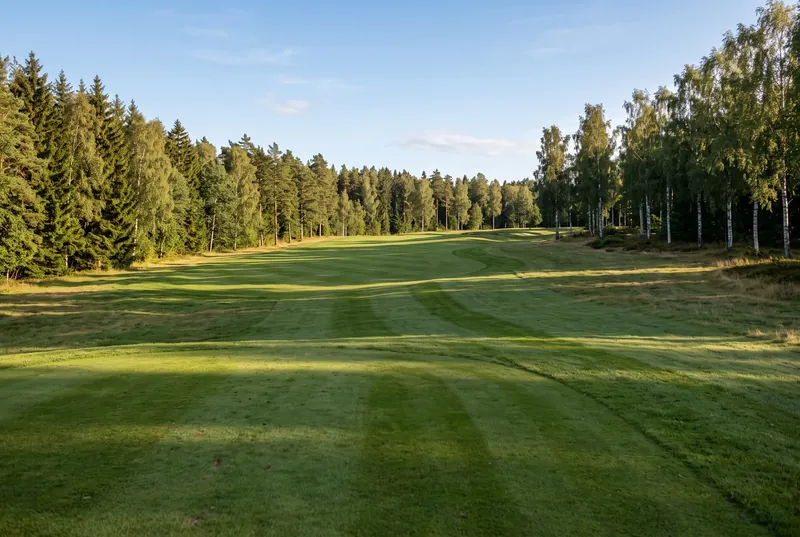
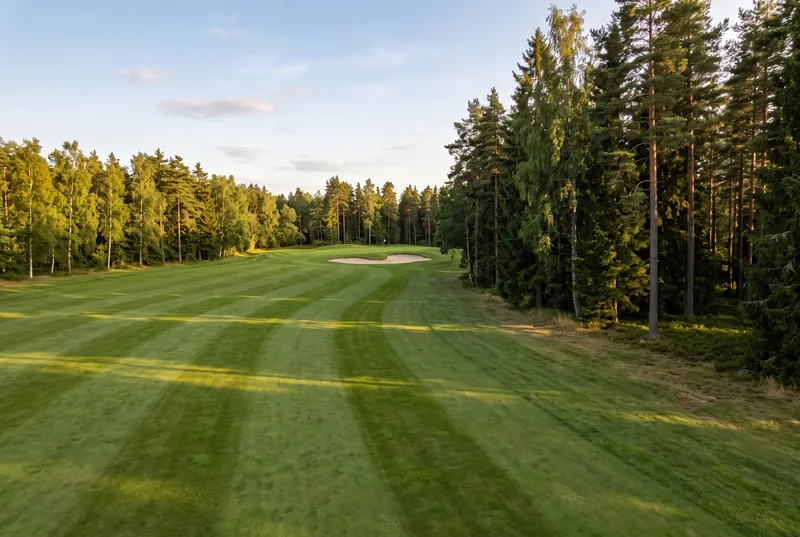
Glasriket startsida: ny entré med banan i en glaskula som i sigillet, banöversikten flyttad till avsnitt 2
Eric 2026-10-30: toppen ska andas kvalitet, Småland och skogsbana. Sidhuvudet är
genomskinligt över entrén. Första försöket (helbild med versalrad) fälldes i
smakgranskningen som standardmall.

Claude-Session: https://claude.ai/code/session_01QQJTjhsrBRz82Tavtjx8Vf

diff --git a/hemsidor/glasriket/public/css/site.css b/hemsidor/glasriket/public/css/site.css
@@ -149,7 +149,7 @@ address{font-style:normal;margin:0 0 1em}
 .hk-tom span{font:400 clamp(72px,16vw,120px)/1 var(--serif);color:var(--djup);opacity:.35;letter-spacing:-.03em}
 .hk-text{display:grid;gap:2px;padding:12px 14px 16px}
 .hk-nr{font:500 22px/1.1 var(--serif)}
-.hk-fakta{font:600 12px/1.3 var(--sans);letter-spacing:.1em;text-transform:uppercase;color:var(--sjo-text)}
+.hk-fakta{font:600 13px/1.3 var(--sans);letter-spacing:.1em;text-transform:uppercase;color:var(--sjo-text)}
 .hk-rubrik{font-size:15px;line-height:1.35;color:var(--text-2);margin-top:4px}
 
 /* banöversikt */
@@ -303,18 +303,51 @@ address{font-style:normal;margin:0 0 1em}
 
 
 /* ---------------------------------------------------------------- startsidan: skogsjuvelen */
-/* Banan överst: hela banan ovanifrån i dagens årstid, varje siffra öppnar hålet */
-.bana{background:#FBF2ED;padding:40px 0 56px}
+/* Entrén: banan i en glaskula, som klotet i klubbens sigill, mot nattblått */
+.entre{position:relative;min-height:100svh;display:flex;align-items:center;background:radial-gradient(ellipse 80% 70% at 70% 45%,#1D3A4C 0%,var(--natt) 70%);color:var(--vit);overflow:hidden}
+.js .entre{margin-top:-68px}
+.entre-inne{display:grid;gap:40px;justify-items:center;text-align:center;padding-top:92px;padding-bottom:48px}
+.entre-klot{position:relative;margin:0;width:min(84vw,46svh);aspect-ratio:1;border-radius:50%;outline:1.5px solid rgba(217,164,65,.6);outline-offset:12px;overflow:hidden;box-shadow:0 40px 120px rgba(0,0,0,.45);animation:klot 1.4s cubic-bezier(.2,.7,.2,1) both}
+.entre-klot img{width:100%;height:100%;object-fit:cover;object-position:46% 60%;animation:andas 18s cubic-bezier(.2,.6,.3,1) both}
+.entre-klot::after{content:"";position:absolute;inset:0;border-radius:50%;background:radial-gradient(circle at 30% 20%,rgba(255,255,255,.3) 0%,rgba(255,255,255,0) 32%),radial-gradient(circle at 50% 50%,rgba(16,32,46,0) 60%,rgba(16,32,46,.4) 100%);pointer-events:none}
+.entre-sigill{width:64px;height:64px;margin:0 auto 18px;animation:stig 1.1s .2s cubic-bezier(.2,.7,.2,1) both}
+.entre h1{color:var(--vit);font-size:clamp(40px,5.6vw,88px);line-height:1.02;letter-spacing:-.02em;margin:0 0 .35em;animation:stig 1.1s .3s cubic-bezier(.2,.7,.2,1) both}
+.entre h1 span,.entre-ingress span{display:block}
+.entre-ingress{font:400 clamp(17px,1.6vw,20px)/1.55 var(--sans);color:rgba(248,250,246,.9);max-width:34ch;margin:0 auto 28px;animation:stig 1.1s .4s cubic-bezier(.2,.7,.2,1) both}
+.entre-ingress span{margin-top:8px;font:italic 400 1.12em/1.4 var(--serif);color:var(--vit)}
+.entre-knappar{display:flex;flex-wrap:wrap;justify-content:center;align-items:center;gap:16px 28px;margin:0;animation:stig 1.1s .5s cubic-bezier(.2,.7,.2,1) both}
+@keyframes klot{from{opacity:0;transform:scale(.86)}to{opacity:1;transform:none}}
+@keyframes andas{from{transform:scale(1.12)}to{transform:scale(1)}}
+@media (min-width:900px){
+  .entre-inne{grid-template-columns:minmax(0,1fr) minmax(0,1fr);align-items:center;gap:64px;justify-items:start;text-align:left;padding-top:120px;padding-bottom:72px}
+  .entre-text{grid-column:1;grid-row:1}
+  .entre-klot{grid-column:2;grid-row:1;justify-self:center;width:min(40vw,68svh,540px)}
+  .entre-sigill{margin:0 0 22px}
+  .entre-ingress{margin-left:0}
+  .entre-knappar{justify-content:flex-start}
+}
+/* Sidhuvudet ligger genomskinligt över entrén tills man skrollar förbi den */
+.huvud{transition:background .3s,box-shadow .3s}
+.huvud .marke{transition:opacity .3s}
+.huvud.pa-bild{background:transparent;backdrop-filter:none}
+.huvud.pa-bild .marke{opacity:0;pointer-events:none}
+.huvud.pa-bild .meny a{color:var(--vit)}
+.huvud.pa-bild .meny a:hover{background:rgba(248,250,246,.14)}
+.huvud.pa-bild .mobilmeny:not([open]) summary span,.huvud.pa-bild .mobilmeny:not([open]) summary span::before,.huvud.pa-bild .mobilmeny:not([open]) summary span::after{background:var(--vit)}
+.huvud.pa-bild:has(.mobilmeny[open]){background:var(--dimma)}
+
+/* Banan: hela banan ovanifrån i dagens årstid, varje siffra zoomar in på hålet */
+.bana{background:#FBF2ED;padding:64px 0 56px}
 .bana-grid{display:grid;gap:24px;grid-template-areas:"topp" "bild" "panel"}
 .bana-topp{grid-area:topp}
 .bana-bild{grid-area:bild}
 .bana-panel{grid-area:panel}
-.bana h1{font-size:clamp(44px,6vw,80px);line-height:.98;letter-spacing:-.02em;max-width:13ch;margin-bottom:.3em;text-wrap:balance;animation:stig 1.1s cubic-bezier(.2,.7,.2,1) both}
-.bana .ingress{color:var(--djup);max-width:34ch;animation:stig 1.1s .15s cubic-bezier(.2,.7,.2,1) both}
-.bana-knappar{display:flex;flex-wrap:wrap;align-items:center;gap:16px 28px;margin:28px 0 0;animation:stig 1.1s .25s cubic-bezier(.2,.7,.2,1) both}
+.bana h2{font-size:clamp(36px,4.6vw,60px);line-height:1.02;letter-spacing:-.015em;max-width:13ch;margin-bottom:.35em}
+.bana .ingress{color:var(--djup);max-width:34ch}
+.bana-knappar{display:flex;flex-wrap:wrap;align-items:center;gap:16px 28px;margin:24px 0 0}
 @keyframes stig{from{opacity:0;transform:translateY(32px)}to{opacity:1;transform:none}}
 @media (min-width:900px){
-  .bana{padding:72px 0 96px}
+  .bana{padding:120px 0 120px}
   .bana-grid{grid-template-columns:minmax(0,1fr) minmax(0,1.1fr);grid-template-areas:"topp bild" "panel bild";grid-template-rows:auto 1fr;column-gap:72px;row-gap:40px;align-items:start}
   .bana-panel{position:sticky;top:120px}
 }

diff --git a/hemsidor/glasriket/tillgangar/css/site.css b/hemsidor/glasriket/tillgangar/css/site.css
@@ -149,7 +149,7 @@ address{font-style:normal;margin:0 0 1em}
 .hk-tom span{font:400 clamp(72px,16vw,120px)/1 var(--serif);color:var(--djup);opacity:.35;letter-spacing:-.03em}
 .hk-text{display:grid;gap:2px;padding:12px 14px 16px}
 .hk-nr{font:500 22px/1.1 var(--serif)}
-.hk-fakta{font:600 12px/1.3 var(--sans);letter-spacing:.1em;text-transform:uppercase;color:var(--sjo-text)}
+.hk-fakta{font:600 13px/1.3 var(--sans);letter-spacing:.1em;text-transform:uppercase;color:var(--sjo-text)}
 .hk-rubrik{font-size:15px;line-height:1.35;color:var(--text-2);margin-top:4px}
 
 /* banöversikt */
@@ -303,18 +303,51 @@ address{font-style:normal;margin:0 0 1em}
 
 
 /* ---------------------------------------------------------------- startsidan: skogsjuvelen */
-/* Banan överst: hela banan ovanifrån i dagens årstid, varje siffra öppnar hålet */
-.bana{background:#FBF2ED;padding:40px 0 56px}
+/* Entrén: banan i en glaskula, som klotet i klubbens sigill, mot nattblått */
+.entre{position:relative;min-height:100svh;display:flex;align-items:center;background:radial-gradient(ellipse 80% 70% at 70% 45%,#1D3A4C 0%,var(--natt) 70%);color:var(--vit);overflow:hidden}
+.js .entre{margin-top:-68px}
+.entre-inne{display:grid;gap:40px;justify-items:center;text-align:center;padding-top:92px;padding-bottom:48px}
+.entre-klot{position:relative;margin:0;width:min(84vw,46svh);aspect-ratio:1;border-radius:50%;outline:1.5px solid rgba(217,164,65,.6);outline-offset:12px;overflow:hidden;box-shadow:0 40px 120px rgba(0,0,0,.45);animation:klot 1.4s cubic-bezier(.2,.7,.2,1) both}
+.entre-klot img{width:100%;height:100%;object-fit:cover;object-position:46% 60%;animation:andas 18s cubic-bezier(.2,.6,.3,1) both}
+.entre-klot::after{content:"";position:absolute;inset:0;border-radius:50%;background:radial-gradient(circle at 30% 20%,rgba(255,255,255,.3) 0%,rgba(255,255,255,0) 32%),radial-gradient(circle at 50% 50%,rgba(16,32,46,0) 60%,rgba(16,32,46,.4) 100%);pointer-events:none}
+.entre-sigill{width:64px;height:64px;margin:0 auto 18px;animation:stig 1.1s .2s cubic-bezier(.2,.7,.2,1) both}
+.entre h1{color:var(--vit);font-size:clamp(40px,5.6vw,88px);line-height:1.02;letter-spacing:-.02em;margin:0 0 .35em;animation:stig 1.1s .3s cubic-bezier(.2,.7,.2,1) both}
+.entre h1 span,.entre-ingress span{display:block}
+.entre-ingress{font:400 clamp(17px,1.6vw,20px)/1.55 var(--sans);color:rgba(248,250,246,.9);max-width:34ch;margin:0 auto 28px;animation:stig 1.1s .4s cubic-bezier(.2,.7,.2,1) both}
+.entre-ingress span{margin-top:8px;font:italic 400 1.12em/1.4 var(--serif);color:var(--vit)}
+.entre-knappar{display:flex;flex-wrap:wrap;justify-content:center;align-items:center;gap:16px 28px;margin:0;animation:stig 1.1s .5s cubic-bezier(.2,.7,.2,1) both}
+@keyframes klot{from{opacity:0;transform:scale(.86)}to{opacity:1;transform:none}}
+@keyframes andas{from{transform:scale(1.12)}to{transform:scale(1)}}
+@media (min-width:900px){
+  .entre-inne{grid-template-columns:minmax(0,1fr) minmax(0,1fr);align-items:center;gap:64px;justify-items:start;text-align:left;padding-top:120px;padding-bottom:72px}
+  .entre-text{grid-column:1;grid-row:1}
+  .entre-klot{grid-column:2;grid-row:1;justify-self:center;width:min(40vw,68svh,540px)}
+  .entre-sigill{margin:0 0 22px}
+  .entre-ingress{margin-left:0}
+  .entre-knappar{justify-content:flex-start}
+}
+/* Sidhuvudet ligger genomskinligt över entrén tills man skrollar förbi den */
+.huvud{transition:background .3s,box-shadow .3s}
+.huvud .marke{transition:opacity .3s}
+.huvud.pa-bild{background:transparent;backdrop-filter:none}
+.huvud.pa-bild .marke{opacity:0;pointer-events:none}
+.huvud.pa-bild .meny a{color:var(--vit)}
+.huvud.pa-bild .meny a:hover{background:rgba(248,250,246,.14)}
+.huvud.pa-bild .mobilmeny:not([open]) summary span,.huvud.pa-bild .mobilmeny:not([open]) summary span::before,.huvud.pa-bild .mobilmeny:not([open]) summary span::after{background:var(--vit)}
+.huvud.pa-bild:has(.mobilmeny[open]){background:var(--dimma)}
+
+/* Banan: hela banan ovanifrån i dagens årstid, varje siffra zoomar in på hålet */
+.bana{background:#FBF2ED;padding:64px 0 56px}
 .bana-grid{display:grid;gap:24px;grid-template-areas:"topp" "bild" "panel"}
 .bana-topp{grid-area:topp}
 .bana-bild{grid-area:bild}
 .bana-panel{grid-area:panel}
-.bana h1{font-size:clamp(44px,6vw,80px);line-height:.98;letter-spacing:-.02em;max-width:13ch;margin-bottom:.3em;text-wrap:balance;animation:stig 1.1s cubic-bezier(.2,.7,.2,1) both}
-.bana .ingress{color:var(--djup);max-width:34ch;animation:stig 1.1s .15s cubic-bezier(.2,.7,.2,1) both}
-.bana-knappar{display:flex;flex-wrap:wrap;align-items:center;gap:16px 28px;margin:28px 0 0;animation:stig 1.1s .25s cubic-bezier(.2,.7,.2,1) both}
+.bana h2{font-size:clamp(36px,4.6vw,60px);line-height:1.02;letter-spacing:-.015em;max-width:13ch;margin-bottom:.35em}
+.bana .ingress{color:var(--djup);max-width:34ch}
+.bana-knappar{display:flex;flex-wrap:wrap;align-items:center;gap:16px 28px;margin:24px 0 0}
 @keyframes stig{from{opacity:0;transform:translateY(32px)}to{opacity:1;transform:none}}
 @media (min-width:900px){
-  .bana{padding:72px 0 96px}
+  .bana{padding:120px 0 120px}
   .bana-grid{grid-template-columns:minmax(0,1fr) minmax(0,1.1fr);grid-template-areas:"topp bild" "panel bild";grid-template-rows:auto 1fr;column-gap:72px;row-gap:40px;align-items:start}
   .bana-panel{position:sticky;top:120px}
 }

diff --git a/hemsidor/glasriket/public/index.html b/hemsidor/glasriket/public/index.html
@@ -10,7 +10,7 @@
 <meta property="og:title" content="Glasrikets Golfklubb · Golf i naturreservatet Fylleryd, Växjö">
 <meta property="og:description" content="Arton hål genom naturreservatet Fylleryd, 4,5 km från Växjö centrum. Spela banan hål för hål redan nu, och boka din starttid.">
 <meta property="og:url" content="https://www.glasriketsgk.se/">
-<meta property="og:image" content="https://www.glasriketsgk.se/img/karta-sommar-2000.webp">
+<meta property="og:image" content="https://www.glasriketsgk.se/img/stamning-1600.webp">
 <meta property="og:locale" content="sv_SE">
 <meta property="og:site_name" content="Glasrikets Golfklubb">
 <meta name="theme-color" content="#10202E">
@@ -34,19 +34,33 @@
   </div>
 </header>
 <main id="innehall">
+<section class="entre" aria-labelledby="entre-rubrik" data-entre>
+  <div class="inne entre-inne">
+    <figure class="entre-klot">
+      <img src="/img/stamning-1600.webp" srcset="/img/stamning-800.webp 800w, /img/stamning-1600.webp 1600w, /img/stamning-2400.webp 2400w" sizes="(min-width: 900px) 50vw, 86vw" width="1600" height="1073" alt="Fairway i kvällssol mellan höga tallar, fram mot green och bunker" fetchpriority="high" decoding="async">
+    </figure>
+    <div class="entre-text">
+      <img class="entre-sigill" src="/img/sigill-vit-192.png" srcset="/img/sigill-vit-192.png 1x, /img/sigill-vit-288.png 1.5x" width="80" height="80" alt="">
+      <h1 id="entre-rubrik"><span>Nära Växjö.</span> <span>Djupt i&nbsp;skogen.</span></h1>
+      <p class="entre-ingress">Arton hål där Smålands tallar står tätt och det blir tyst mellan slagen. <span>Välkommen hem. Eller välkommen&nbsp;hit.</span></p>
+      <p class="entre-knappar"><a class="knapp knapp-glod" href="https://mingolf.golf.se/" rel="noopener">Boka starttid</a> <a class="pil pil-ljus" href="#kartan">Se banan</a></p>
+    </div>
+  </div>
+</section>
+
 <section class="bana" id="kartan" aria-labelledby="bana-rubrik">
   <div class="inne bana-grid">
-    <div class="bana-topp">
-      <h1 id="bana-rubrik">Arton hål som stannar&nbsp;kvar</h1>
+    <div class="bana-topp" data-visa>
+      <h2 id="bana-rubrik">Arton hål som stannar&nbsp;kvar</h2>
       <p class="ingress" data-arstid-text
          data-text-var="Vitsipporna lyser i skogsbrynet och greenerna har just vaknat. Tryck på ett hål och spela det i förväg."
          data-text-host="Björkarna längs fjortonde har gått i guld. Tryck på ett hål och spela det i förväg."
          data-text-vinter="Banan vilar under snön. Tryck på ett hål och planera vårens första runda.">Fairway glöder i kvällssol och det är tyst mellan granarna. Tryck på ett hål och spela det i förväg.</p>
-      <p class="bana-knappar"><a class="knapp knapp-glod" href="https://mingolf.golf.se/" rel="noopener">Boka starttid</a> <a class="pil" href="/banan/">Se alla 18 hål</a></p>
+      <p class="bana-knappar"><a class="pil" href="/banan/">Se alla 18 hål</a></p>
     </div>
     <div class="karta-bild bana-bild" data-karta>
       <div class="karta-zoom" data-karta-zoom>
-      <img class="karta-lager aktiv" data-lager="sommar" src="/img/karta-sommar-1200.webp" srcset="/img/karta-sommar-1200.webp 800w, /img/karta-sommar-2000.webp 1334w" sizes="(min-width: 900px) 50vw, 92vw" width="800" height="1200" alt="Glasrikets 18-hålsbana ovanifrån, med hålens nummer" fetchpriority="high" decoding="async">
+      <img class="karta-lager aktiv" data-lager="sommar" src="/img/karta-sommar-1200.webp" srcset="/img/karta-sommar-1200.webp 800w, /img/karta-sommar-2000.webp 1334w" sizes="(min-width: 900px) 50vw, 92vw" width="800" height="1200" alt="Glasrikets 18-hålsbana ovanifrån, med hålens nummer" loading="lazy" decoding="async">
       <img class="karta-lager" data-lager="var" data-src="/img/karta-var-1200.webp" data-srcset="/img/karta-var-1200.webp 800w, /img/karta-var-2000.webp 1334w" sizes="(min-width: 900px) 50vw, 92vw" width="800" height="1200" alt="Glasrikets 18-hålsbana ovanifrån på våren, med hålens nummer" decoding="async">
       <img class="karta-lager" data-lager="host" data-src="/img/karta-host-1200.webp" data-srcset="/img/karta-host-1200.webp 800w, /img/karta-host-2000.webp 1334w" sizes="(min-width: 900px) 50vw, 92vw" width="800" height="1200" alt="Glasrikets 18-hålsbana ovanifrån på hösten, med hålens nummer" decoding="async">
       <img class="karta-lager" data-lager="vinter" data-src="/img/karta-vinter-1200.webp" data-srcset="/img/karta-vinter-1200.webp 800w, /img/karta-vinter-2000.webp 1334w" sizes="(min-width: 900px) 50vw, 92vw" width="800" height="1200" alt="Glasrikets 18-hålsbana ovanifrån i snö, med hålens nummer" decoding="async">

diff --git a/hemsidor/glasriket/sidor/01-start.html b/hemsidor/glasriket/sidor/01-start.html
@@ -2,21 +2,35 @@
 titel: Glasrikets Golfklubb · Golf i naturreservatet Fylleryd, Växjö
 beskrivning: Arton hål genom naturreservatet Fylleryd, 4,5 km från Växjö centrum. Spela banan hål för hål redan nu, och boka din starttid.
 sokvag:
-bild: img/karta-sommar-2000.webp
+bild: img/stamning-1600.webp
 -->
+<section class="entre" aria-labelledby="entre-rubrik" data-entre>
+  <div class="inne entre-inne">
+    <figure class="entre-klot">
+      <img src="/img/stamning-1600.webp" srcset="/img/stamning-800.webp 800w, /img/stamning-1600.webp 1600w, /img/stamning-2400.webp 2400w" sizes="(min-width: 900px) 50vw, 86vw" width="1600" height="1073" alt="Fairway i kvällssol mellan höga tallar, fram mot green och bunker" fetchpriority="high" decoding="async">
+    </figure>
+    <div class="entre-text">
+      <img class="entre-sigill" src="/img/sigill-vit-192.png" srcset="/img/sigill-vit-192.png 1x, /img/sigill-vit-288.png 1.5x" width="80" height="80" alt="">
+      <h1 id="entre-rubrik"><span>Nära Växjö.</span> <span>Djupt i&nbsp;skogen.</span></h1>
+      <p class="entre-ingress">Arton hål där Smålands tallar står tätt och det blir tyst mellan slagen. <span>Välkommen hem. Eller välkommen&nbsp;hit.</span></p>
+      <p class="entre-knappar"><a class="knapp knapp-glod" href="{{bokning_url}}" rel="noopener">Boka starttid</a> <a class="pil pil-ljus" href="#kartan">Se banan</a></p>
+    </div>
+  </div>
+</section>
+
 <section class="bana" id="kartan" aria-labelledby="bana-rubrik">
   <div class="inne bana-grid">
-    <div class="bana-topp">
-      <h1 id="bana-rubrik">Arton hål som stannar&nbsp;kvar</h1>
+    <div class="bana-topp" data-visa>
+      <h2 id="bana-rubrik">Arton hål som stannar&nbsp;kvar</h2>
       <p class="ingress" data-arstid-text
          data-text-var="Vitsipporna lyser i skogsbrynet och greenerna har just vaknat. Tryck på ett hål och spela det i förväg."
          data-text-host="Björkarna längs fjortonde har gått i guld. Tryck på ett hål och spela det i förväg."
          data-text-vinter="Banan vilar under snön. Tryck på ett hål och planera vårens första runda.">Fairway glöder i kvällssol och det är tyst mellan granarna. Tryck på ett hål och spela det i förväg.</p>
-      <p class="bana-knappar"><a class="knapp knapp-glod" href="{{bokning_url}}" rel="noopener">Boka starttid</a> <a class="pil" href="/banan/">Se alla 18 hål</a></p>
+      <p class="bana-knappar"><a class="pil" href="/banan/">Se alla 18 hål</a></p>
     </div>
     <div class="karta-bild bana-bild" data-karta>
       <div class="karta-zoom" data-karta-zoom>
-      <img class="karta-lager aktiv" data-lager="sommar" src="/img/karta-sommar-1200.webp" srcset="/img/karta-sommar-1200.webp 800w, /img/karta-sommar-2000.webp 1334w" sizes="(min-width: 900px) 50vw, 92vw" width="800" height="1200" alt="Glasrikets 18-hålsbana ovanifrån, med hålens nummer" fetchpriority="high" decoding="async">
+      <img class="karta-lager aktiv" data-lager="sommar" src="/img/karta-sommar-1200.webp" srcset="/img/karta-sommar-1200.webp 800w, /img/karta-sommar-2000.webp 1334w" sizes="(min-width: 900px) 50vw, 92vw" width="800" height="1200" alt="Glasrikets 18-hålsbana ovanifrån, med hålens nummer" loading="lazy" decoding="async">
       <img class="karta-lager" data-lager="var" data-src="/img/karta-var-1200.webp" data-srcset="/img/karta-var-1200.webp 800w, /img/karta-var-2000.webp 1334w" sizes="(min-width: 900px) 50vw, 92vw" width="800" height="1200" alt="Glasrikets 18-hålsbana ovanifrån på våren, med hålens nummer" decoding="async">
       <img class="karta-lager" data-lager="host" data-src="/img/karta-host-1200.webp" data-srcset="/img/karta-host-1200.webp 800w, /img/karta-host-2000.webp 1334w" sizes="(min-width: 900px) 50vw, 92vw" width="800" height="1200" alt="Glasrikets 18-hålsbana ovanifrån på hösten, med hålens nummer" decoding="async">
       <img class="karta-lager" data-lager="vinter" data-src="/img/karta-vinter-1200.webp" data-srcset="/img/karta-vinter-1200.webp 800w, /img/karta-vinter-2000.webp 1334w" sizes="(min-width: 900px) 50vw, 92vw" width="800" height="1200" alt="Glasrikets 18-hålsbana ovanifrån i snö, med hålens nummer" decoding="async">

diff --git a/hemsidor/glasriket/public/js/site.js b/hemsidor/glasriket/public/js/site.js
@@ -25,6 +25,15 @@
     document.addEventListener('keydown', function (h) { if (h.key === 'Escape') meny.open = false; });
   }
 
+  // Startsidan: sidhuvudet är genomskinligt över entrébilden och blir fast när man skrollat förbi den
+  var entre = document.querySelector('[data-entre]'), huvud = document.querySelector('.huvud');
+  if (entre && huvud) {
+    var lage = function () { huvud.classList.toggle('pa-bild', entre.getBoundingClientRect().bottom > huvud.offsetHeight + 1); };
+    lage();
+    window.addEventListener('scroll', lage, { passive: true });
+    window.addEventListener('resize', lage);
+  }
+
   // Årstiden styr bilderna: kartan och hålbilderna visas som banan ser ut just nu.
   // Vår april–maj, sommar juni–augusti, höst september–oktober, vinter november–mars.
   // ?arstid=vinter (osv.) visar en annan årstid under besöket – för granskning.

diff --git a/hemsidor/glasriket/tillgangar/js/site.js b/hemsidor/glasriket/tillgangar/js/site.js
@@ -25,6 +25,15 @@
     document.addEventListener('keydown', function (h) { if (h.key === 'Escape') meny.open = false; });
   }
 
+  // Startsidan: sidhuvudet är genomskinligt över entrébilden och blir fast när man skrollat förbi den
+  var entre = document.querySelector('[data-entre]'), huvud = document.querySelector('.huvud');
+  if (entre && huvud) {
+    var lage = function () { huvud.classList.toggle('pa-bild', entre.getBoundingClientRect().bottom > huvud.offsetHeight + 1); };
+    lage();
+    window.addEventListener('scroll', lage, { passive: true });
+    window.addEventListener('resize', lage);
+  }
+
   // Årstiden styr bilderna: kartan och hålbilderna visas som banan ser ut just nu.
   // Vår april–maj, sommar juni–augusti, höst september–oktober, vinter november–mars.
   // ?arstid=vinter (osv.) visar en annan årstid under besöket – för granskning.

diff --git a/hemsidor/glasriket/forbered.py b/hemsidor/glasriket/forbered.py
@@ -82,6 +82,14 @@ def sigill():
     duk.convert("RGB").save(UT / "apple-touch-icon.png")
 
 
+def sigill_vit():
+    """Vita sigillet till toppbilden på startsidan (genomskinlig PNG, ingen webbläsare behövs)."""
+    im = Image.open(KALLA / "logo-fornyad" / "sigill" / "smaland" / "Glasriket_sigill-smaland_enfarg_vit.png").convert("RGBA")
+    im = im.crop(im.getbbox())
+    for storlek in (96, 192, 288):
+        im.resize((storlek, storlek), Image.LANCZOS).save(UT / "img" / f"sigill-vit-{storlek}.png", optimize=True)
+
+
 def foton():
     (UT / "img").mkdir(parents=True, exist_ok=True)
     for namn, fil in FOTON.items():
@@ -97,9 +105,9 @@ def foton():
 
 
 ARSTIDER = ("var", "sommar", "host", "vinter")
-# Stämningsbilden överst på startsidan. Tills klubbens eget foto finns: hål 14 från tee i ögonhöjd
-# (godkänd vy, byggd på Lantmäteriets höjddata). Byt bara sökvägen när fotot är taget.
-STAMNINGSBILD = KALLA / "ogonhojd" / "v2" / "h14-tee.jpg"
+# Stämningsbilden överst på startsidan. Tills klubbens eget foto finns: fairway mellan tallarna
+# vid fjortonde green (godkänd vy, byggd på Lantmäteriets höjddata). Byt bara sökvägen när fotot är taget.
+STAMNINGSBILD = KALLA / "ogonhojd" / "v2" / "allm-h14green.jpg"
 
 
 def arstider():
@@ -123,6 +131,6 @@ def stamning():
 
 
 if __name__ == "__main__":
-    delar = sys.argv[1:] or ["typsnitt", "sigill", "foton", "arstider", "stamning"]
+    delar = sys.argv[1:] or ["typsnitt", "sigill", "sigill_vit", "foton", "arstider", "stamning"]
     for d in delar:
         globals()[d]()

diff --git a/hemsidor/glasriket/DESIGN.md b/hemsidor/glasriket/DESIGN.md
@@ -1,9 +1,11 @@
 # Glasrikets GK – designfil
 
-**Idé:** Banan först. Det första besökaren ser är hela banan ovanifrån i dagens årstid (vår, sommar, höst eller vinter
-efter datum), med alla 18 hål klickbara. Förslag 2 (2026-10-27, Eric: banan i fokus och mycket bättre säljande texter).
+**Idé:** Banan i glaskulan. Överst ligger banan i ett glasklot mot nattblått, samma klot som i klubbens sigill
+"Småland": glaset i Glasriket och skogen i Fylleryd i en och samma bild. Sedan hela banan ovanifrån i dagens årstid,
+där varje hål går att zooma in på (Eric 2026-10-30: toppen ska andas kvalitet, Småland och skogsbana, stolthet för
+medlemmar och lust för gäster; banöversikten i avsnitt 2).
 
-Registrerad i `hemsidor/designregister.yaml` (riktning `arstiderna`, toppbild `stamningsfoto`).
+Registrerad i `hemsidor/designregister.yaml` (riktning `arstiderna`, toppbild `glaskula`).
 
 ## Typsnitt (klubbens profil "Glas och skog")
 - Rubriker och siffror: Spectral 400/500. Brödtext och knappar: Hanken Grotesk 400–600.
@@ -21,15 +23,19 @@ Registrerad i `hemsidor/designregister.yaml` (riktning `arstiderna`, toppbild `s
 | Knapp och vald hålsiffra | glöd `#D9A441` |
 
 ## Startsidan, avsnitt för avsnitt
-1. **Banan (toppen):** rubrik, en mening som byts efter årstid och "Boka starttid" bredvid kartan. Siffrorna tänds en
+1. **Entrén:** banan i en rund glaskula med tunn guldring, vita sigillet, rubriken "Nära Växjö. Djupt i skogen.",
+   en mening plus "Välkommen hem. Eller välkommen hit." (medlem och gäst), "Boka starttid" och "Se banan".
+   Ingen versalrad, inga textskuggor, ingen sifferrad. Sidhuvudet är genomskinligt över entrén och sigillet i
+   huvudet syns först när man skrollat förbi. Bilden byts mot klubbens eget foto i `forbered.py` (STAMNINGSBILD).
+2. **Banan:** rubrik, en mening som byts efter årstid och "Se alla 18 hål" bredvid kartan. Siffrorna tänds en
    efter en (hål 1–18) direkt, så att man förstår att de går att trycka på. Tryck på ett hål: hålbilden (samma årstid),
    par, längd och rubrik visas under knapparna; andra trycket går till hålet. Under hålet en ruta för hålsponsorns logga.
-   På mobil: rubrik, karta, sedan hålet.
-2. **Alla arton hål:** en rad hålkort att svepa i sidled. Ett avsnitt med hål i ögonhöjd väntar tills alla
+   Tryck zoomar kartan in på hålet ("Visa hela banan" eller Esc zoomar ut). På mobil: rubrik, karta, sedan hålet.
+3. **Alla arton hål:** en rad hålkort att svepa i sidled. Ett avsnitt med hål i ögonhöjd väntar tills alla
    18 hål har en sådan vy (Eric 2026-10-27); CSS-klasserna `signatur`/`sig-*` finns kvar för det.
-3. **Naturen:** bilden går ut i kanten, kort text om Fylleryd.
-4. **Vägar in:** greenfee, medlemskap, hålsponsor – ytor utan ramar.
-5. **Hitta hit** med öppettider.
+4. **Naturen:** bilden går ut i kanten, kort text om Fylleryd.
+5. **Vägar in:** greenfee, medlemskap, hålsponsor – ytor utan ramar.
+6. **Hitta hit** med öppettider.
 
 ## Årstider
 - Vår april–maj, sommar juni–augusti, höst september–oktober, vinter november–mars (i `site.js`).
@@ -51,3 +57,6 @@ aldrig ändrad. Inga personer. Lantmäteriet-raden och "Vissa bilder är visuali
 - v2 flygfilm över hål 14 med nedräkning – filmen fälld av Eric (för låg kvalitet), nedräkningen behölls.
 - v3 (2026-10-25) stämningsbild, årstid efter datum, sponsorruta. Nedräkningen borttagen samma kväll.
 - Förslag 2 (2026-10-27): banan som toppbild, svepbar rad med alla hål, nya säljtexter. Stämningsfotot finns kvar i forbered.py men används inte på startsidan.
+- 2026-10-29: inzoomning på hålet och hålen i raden som växer fram ett i taget.
+- 2026-10-30 (Eric): ny entré överst. Första försöket (helbild, versalrad, två knappar) fälldes i smakgranskningen som
+  standardmall; ersatt av glaskulan. Banöversikten flyttad till avsnitt 2.
